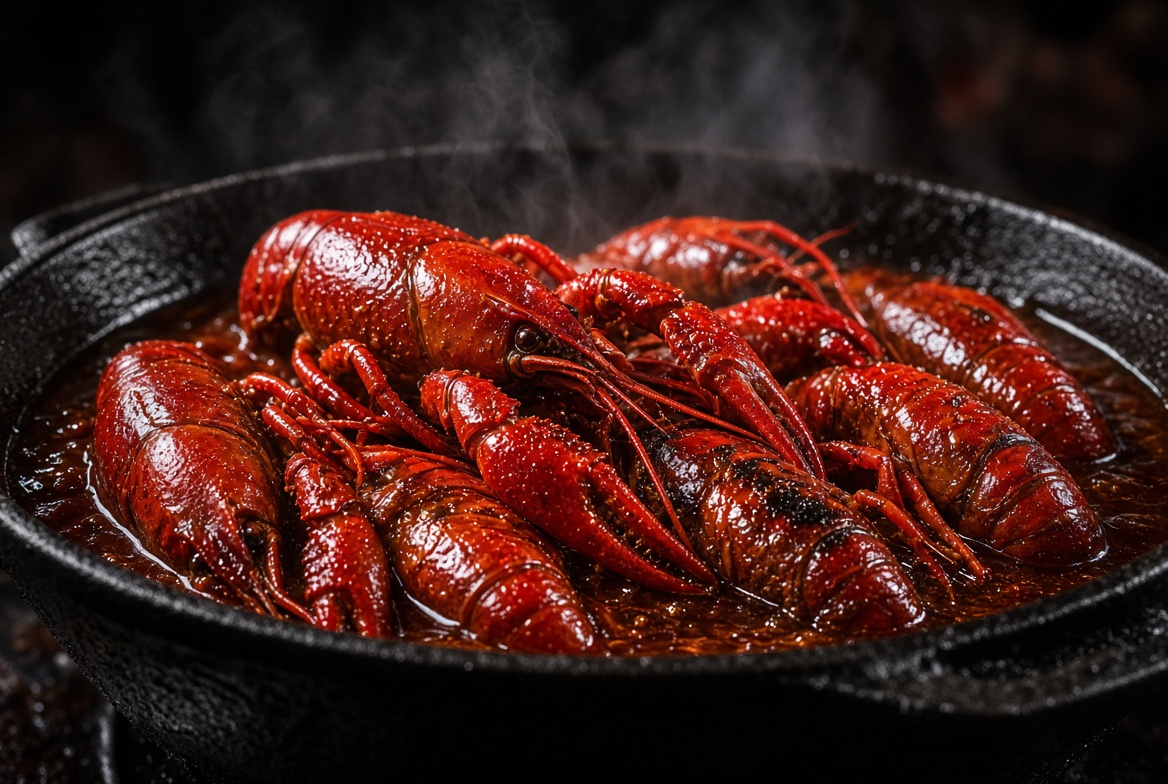
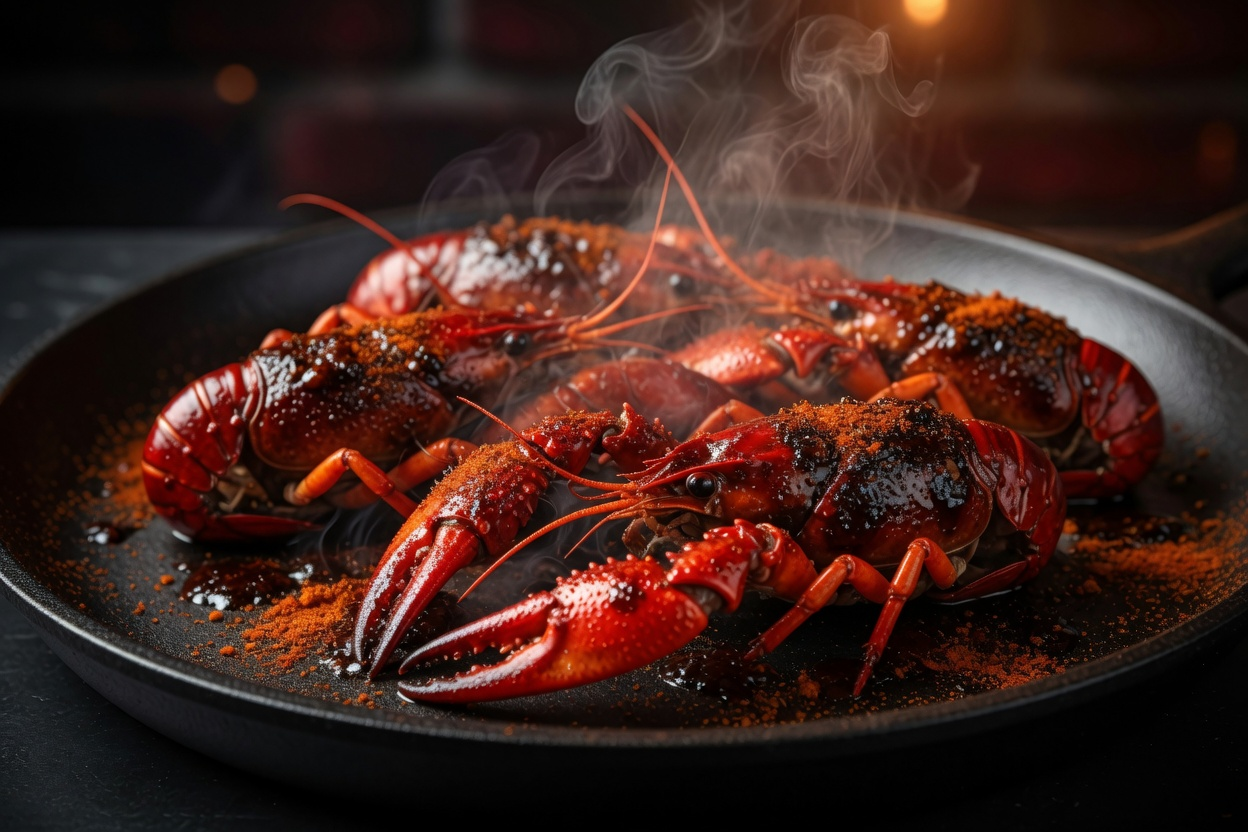
Put menu photos in assets/menu and add the Tabasco crayfish.
The snack, cheese, and seafood pictures the catalog uses now sit next to the other menu files. Existing files stay in the repository.

diff --git a/app.js b/app.js
@@ -19,13 +19,14 @@
     "Часниково-гострі": "assets/shrimp-garlic.jpg",
     "Томатний": "assets/shrimp-tomato.jpg",
   };
-  const BROTHS = ["BBQ", "Вершкові", "Класика", "Томатний", "Пікантний / HOT"];
+  const BROTHS = ["BBQ", "Вершкові", "Класика", "Томатний", "Пікантний / HOT", "Табаско"];
   const BROTH_PHOTOS = {
-    BBQ: "assets/cray-bbq.jpg",
-    "Вершкові": "assets/cray-cream.jpg",
-    "Класика": "assets/cray-classic.jpg",
-    "Томатний": "assets/cray-tomato.jpg",
-    "Пікантний / HOT": "assets/cray-hot.jpg",
+    BBQ: "assets/cray-bbq.jpg?v=2",
+    "Вершкові": "assets/cray-cream.jpg?v=2",
+    "Класика": "assets/cray-classic.jpg?v=2",
+    "Томатний": "assets/cray-tomato.jpg?v=2",
+    "Пікантний / HOT": "assets/cray-hot.jpg?v=2",
+    "Табаско": "assets/cray-tabasco.jpg?v=1",
   };
   const SIZES = [
     { id: "M", label: "M", price: 1300, pcs: "30–35 шт/кг" },
@@ -38,7 +39,15 @@
   let db = null;
 
   function money(n) {
-    return new Intl.NumberFormat("uk-UA").format(n) + " грн";
+    const v = Math.round(Number(n) * 100) / 100;
+    return new Intl.NumberFormat("uk-UA", {
+      minimumFractionDigits: Number.isInteger(v) ? 0 : 2,
+      maximumFractionDigits: 2,
+    }).format(v) + " грн";
+  }
+  function lineSum(item) {
+    const qty = item.qty != null ? item.qty : item.kg;
+    return qty * item.price;
   }
   function saveCart() {
     localStorage.setItem("kv-cart", JSON.stringify(cart));
@@ -259,6 +268,7 @@
         extra: flavor,
         kg,
         price: 999,
+        unit: "кг",
       });
     });
   });
@@ -282,6 +292,7 @@
         extra: broth,
         kg,
         price: size.price,
+        unit: "кг",
       });
     });
   });
@@ -296,16 +307,25 @@
 
   function renderCart() {
     const list = $("#cartList");
-    const n = cart.reduce((s, i) => s + i.kg, 0);
     const count = $("#cartCount");
+    const head = $("#cartHeadSum");
+    const sum = cart.reduce((s, i) => s + lineSum(i), 0);
     if (cart.length) {
       count.hidden = false;
-      count.textContent = cart.length;
-    } else count.hidden = true;
+      count.textContent = String(cart.length);
+      head.hidden = false;
+      head.textContent = money(sum);
+      $("#header").classList.add("has-sum");
+    } else {
+      count.hidden = true;
+      head.hidden = true;
+      head.textContent = "";
+      $("#header").classList.remove("has-sum");
+    }
+    $("#cartSum").textContent = money(sum);
 
     if (!cart.length) {
       list.innerHTML = '<p class="empty">Кошик порожній</p>';
-      $("#cartSum").textContent = money(0);
       return;
     }
     list.innerHTML = cart
@@ -314,10 +334,10 @@
       <div class="cart-item">
         <div>
           <b>${i.title}</b>
-          <small>${i.extra} · ${i.kg} кг × ${money(i.price)}</small>
+          <small>${i.extra} · ${i.qty != null ? i.qty : i.kg} ${i.unit || "кг"} × ${money(i.price)}</small>
         </div>
         <div style="text-align:right">
-          <b>${money(Math.round(i.kg * i.price))}</b>
+          <b>${money(lineSum(i))}</b>
           <div><button data-del="${idx}" style="color:#ff8a8a;font-size:12px;margin-top:6px">прибрати</button></div>
         </div>
       </div>`
@@ -329,8 +349,6 @@
         saveCart();
       })
     );
-    const sum = cart.reduce((s, i) => s + i.kg * i.price, 0);
-    $("#cartSum").textContent = money(Math.round(sum));
   }
 
   $("#orderForm").addEventListener("submit", async (e) => {
@@ -338,7 +356,7 @@
     if (!cart.length) return toast("Кошик порожній");
     const fd = new FormData(e.target);
     const type = fd.get("type");
-    const sum = Math.round(cart.reduce((s, i) => s + i.kg * i.price, 0));
+    const sum = Math.round(cart.reduce((s, i) => s + lineSum(i), 0) * 100) / 100;
     if (type === "delivery" && sum < C.minOrder) {
       return toast("Мінімальне замовлення на доставку — " + C.minOrder + " грн");
     }
@@ -397,6 +415,94 @@
   orderType.addEventListener("change", syncAddress);
   syncAddress();
 
+  function esc(s) {
+    return String(s).replace(/[&<>"']/g, (ch) => ({
+      "&": "&amp;",
+      "<": "&lt;",
+      ">": "&gt;",
+      '"': "&quot;",
+      "'": "&#39;",
+    }[ch]));
+  }
+
+  function findCatalogItem(id) {
+    const sections = (window.KLESHNEVAR_CATALOG && window.KLESHNEVAR_CATALOG.sections) || [];
+    for (const section of sections) {
+      const found = section.items.find((item) => item.id === id);
+      if (found) return found;
+    }
+    return null;
+  }
+
+  function catalogCard(item) {
+    return `
+      <article class="card" data-id="${esc(item.id)}">
+        <div class="card-photo" style="background-image:url('${esc(item.photo)}')"></div>
+        <div class="card-body">
+          <h3>${esc(item.name)}</h3>
+          <p class="meta">${esc(item.meta)}</p>
+          <div class="price">${money(item.price)} / ${esc(item.unit)}</div>
+          <div class="qty">
+            <button type="button" data-step="-1">−</button>
+            <span class="qty-val">1</span>
+            <button type="button" data-step="1">+</button>
+            <span class="meta">${esc(item.unit)}</span>
+          </div>
+          <button class="add-btn add-extra" type="button">Додати в кошик</button>
+        </div>
+      </article>`;
+  }
+
+  function renderCatalog() {
+    const sections = (window.KLESHNEVAR_CATALOG && window.KLESHNEVAR_CATALOG.sections) || [];
+    sections.forEach((section) => {
+      if (section.grouped) {
+        const root = document.getElementById(section.id + "Root");
+        if (!root) return;
+        const order = [];
+        const groups = {};
+        section.items.forEach((item) => {
+          const key = item.group || "Інше";
+          if (!groups[key]) {
+            groups[key] = [];
+            order.push(key);
+          }
+          groups[key].push(item);
+        });
+        root.innerHTML = order
+          .map(
+            (key) => `
+            <div class="shop-block">
+              <h3>${esc(key)}</h3>
+              <div class="grid">${groups[key].map(catalogCard).join("")}</div>
+            </div>`
+          )
+          .join("");
+        return;
+      }
+      const grid = document.getElementById(section.id + "Grid");
+      if (grid) grid.innerHTML = section.items.map(catalogCard).join("");
+    });
+  }
+
+  document.addEventListener("click", (e) => {
+    const add = e.target.closest(".add-extra");
+    if (!add) return;
+    const card = add.closest(".card");
+    const item = findCatalogItem(card.dataset.id);
+    if (!item) return;
+    const qty = Math.max(1, Math.round(+card.querySelector(".qty-val").textContent || 1));
+    addItem({
+      id: item.id,
+      title: item.name,
+      extra: item.meta,
+      kg: qty,
+      unit: item.unit,
+      price: item.price,
+    });
+  });
+
+  renderCatalog();
   initFirebase();
   renderCart();
 })();
